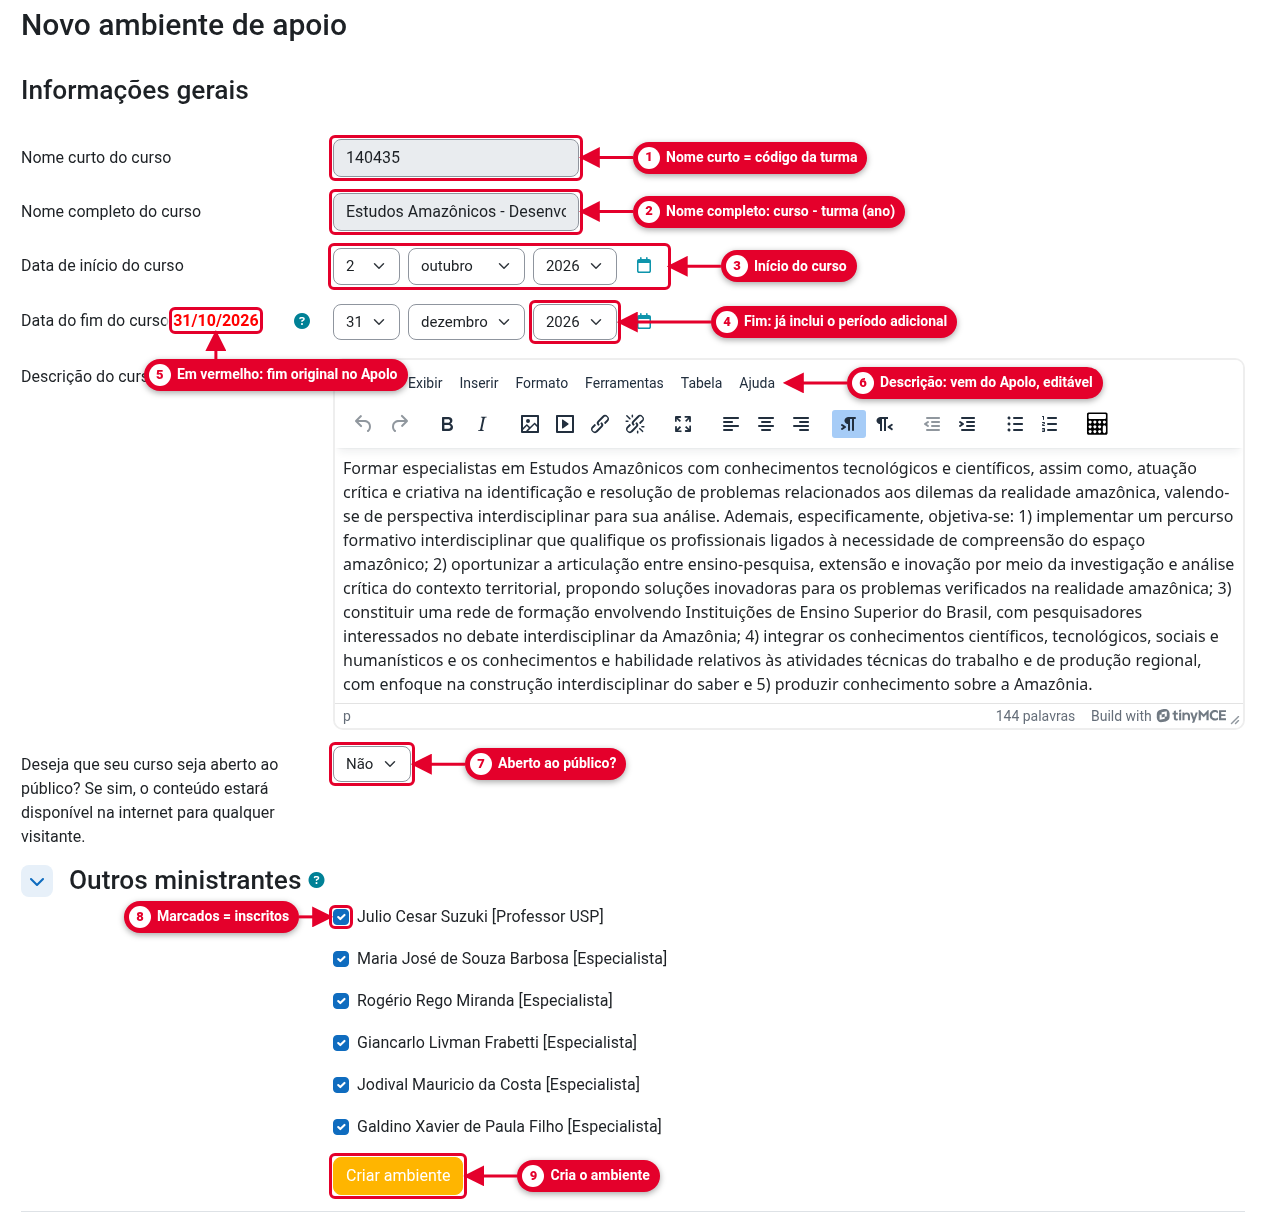
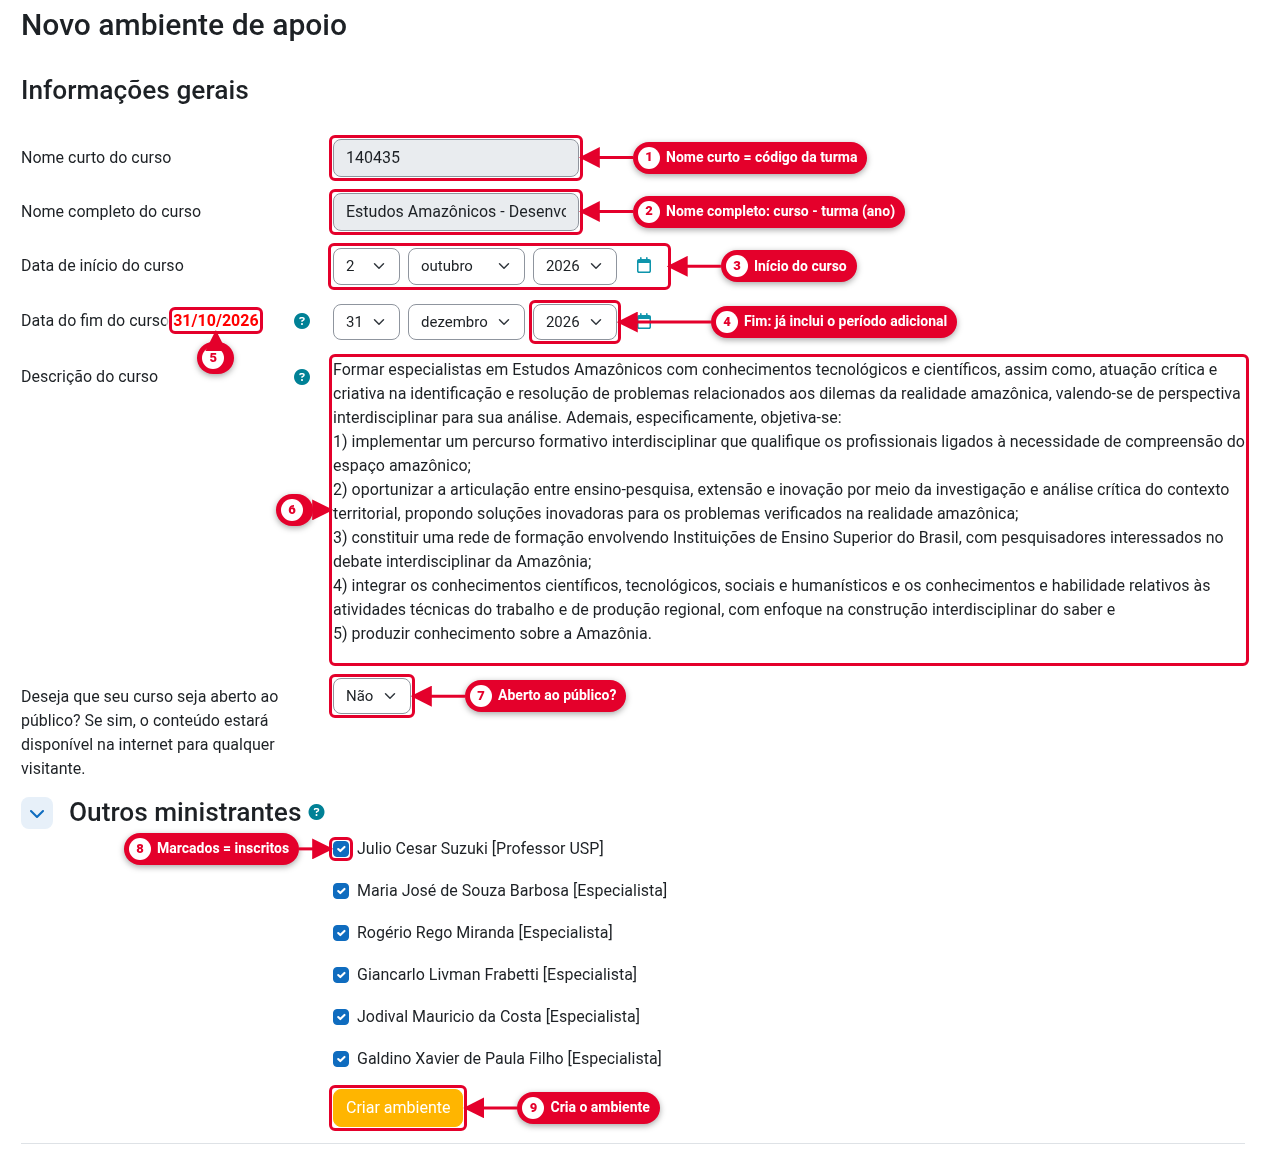
docs

diff --git a/docs/index.html b/docs/index.html
@@ -222,7 +222,7 @@
         <li><b>Início</b> do curso, vindo do Apolo.</li>
         <li><b>Fim</b> do curso: data do Apolo <b>mais um período adicional</b> (hoje, 2 meses), para os alunos continuarem acessando o material.</li>
         <li>Em vermelho, o fim original no Apolo.</li>
-        <li><b>Descrição</b>, vinda do Apolo. Revise agora: depois de criado o curso, ela não pode mais ser alterada.</li>
+        <li><b>Descrição</b>: objetivo do curso no Apolo (fixa). Para mudá-la, altere no Apolo antes de criar o ambiente.</li>
         <li><b>Aberto ao público?</b> “Sim” deixa qualquer visitante ver o conteúdo.</li>
         <li><b>Outros ministrantes</b>: os marcados são inscritos com você.</li>
         <li><span class="kbd">Criar ambiente</span>.</li>
@@ -418,7 +418,7 @@
       <details><summary>Um aluno cancelou, mas continua no curso.</summary>
         <p>A sincronização não retira alunos. Remova-o em <b>Participantes</b>, se necessário.</p></details>
       <details><summary>Quero mudar o nome ou a descrição do curso.</summary>
-        <p>Esses dados vêm do Apolo e ficam travados no Moodle. Corrija-os no Apolo ou procure o suporte.</p></details>
+        <p>Esses dados vêm do Apolo e ficam travados no Moodle, inclusive na criação. Corrija-os no Apolo antes de criar o ambiente, ou procure o suporte.</p></details>
       <details><summary>Esqueci de marcar um ministrante.</summary>
         <p>Inscreva-o como professor em <b>Participantes</b>.</p></details>
       <details><summary>Fui levado direto a um curso ao clicar em Criar ambiente.</summary>
